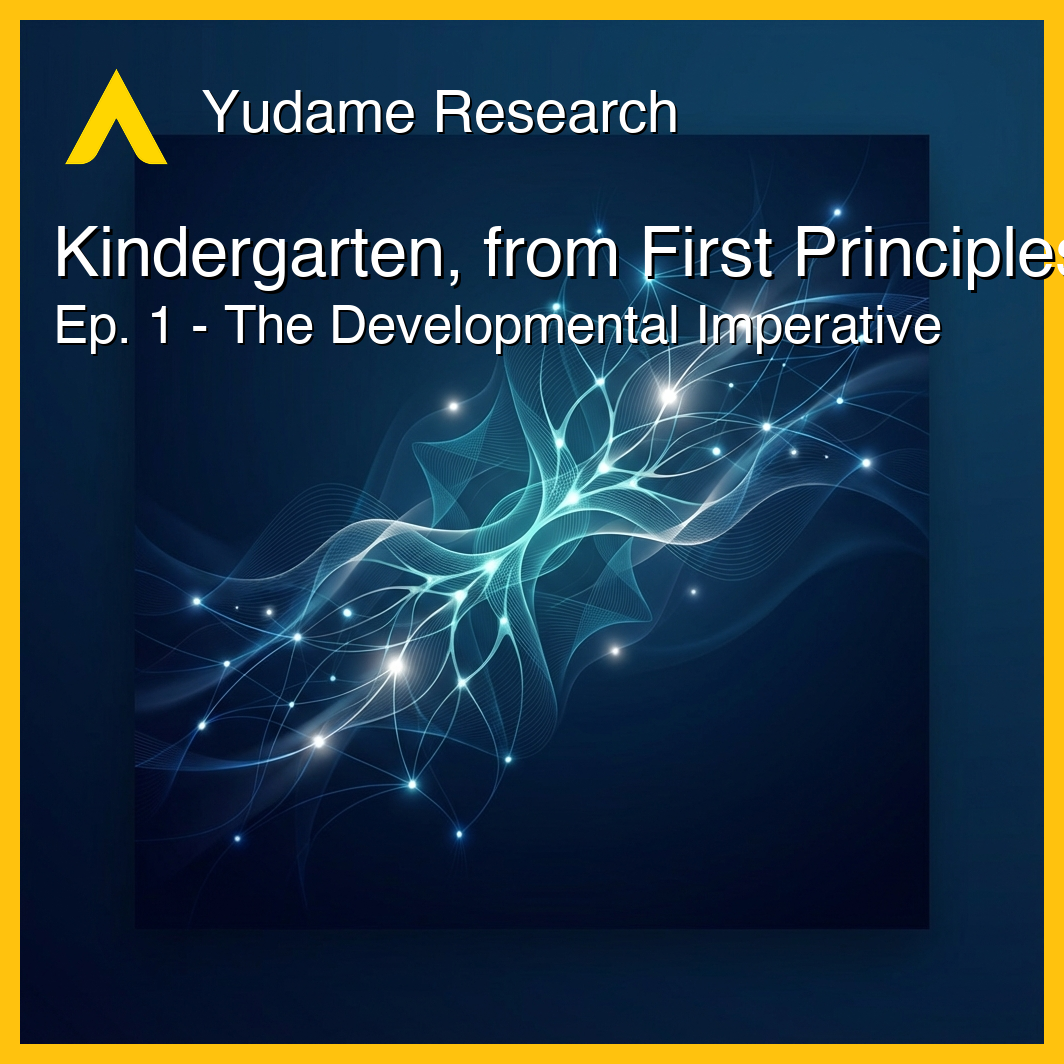
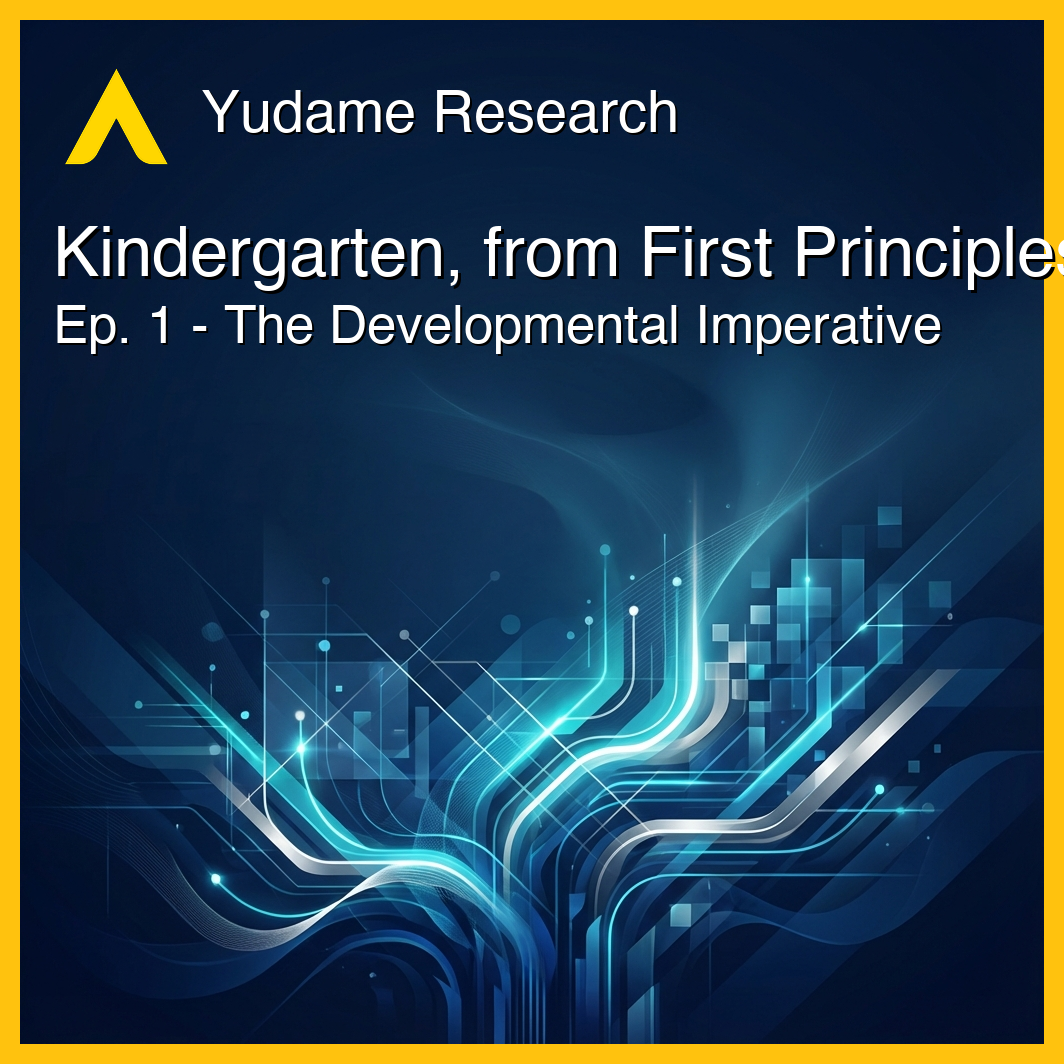
feat: Regenerate Episode 1 cover art with improved composition
Regenerated cover art using updated prompt with better composition guidelines:
- Visual interest concentrated in lower 2/3 of image
- Top 1/3 kept simple for text overlay placement
- Ensures better readability of logo, series name, and episode title

Changes:
- Regenerate cover.png with improved Gemini prompt
- Reapply branding (logo, series text, border)
- Update feed.xml version from ?v=1 to ?v=2 for cache busting

This ensures podcast apps fetch the new cover image immediately.

diff --git a/podcast/episodes/kindergarten-first-principles/ep1-developmental-imperative/prompts.md b/podcast/episodes/kindergarten-first-principles/ep1-developmental-imperative/prompts.md
@@ -173,3 +173,56 @@ IMPORTANT:
 **Output:** cover.png
 
 **Date:** 2025-11-28
+
+
+## Cover Art Generation
+
+**Tool Used:** OpenRouter - google/gemini-3-pro-image-preview
+
+**Original Prompt:**
+```
+Modern podcast episode cover art for "Ep1 Developmental Imperative":
+
+Style: Clean, professional, abstract visualization
+Layout: Bold visual elements suitable for square format
+Color palette: Deep navy blues and dark blues as the dominant theme throughout
+Concept: *Research report for Kindergarten, from First Principles: Episode 1* --- Ages 4-6 represent a developmental inflection point. During these years, the structure of executive function itself transforms—
+
+Design as square format (1024x1024px) with space for text overlay.
+Professional, minimalist aesthetic suitable for Apple Podcasts.
+No text in the image - pure visual design.
+```
+
+**Enhanced Prompt:**
+```
+Modern podcast episode cover art for "Ep1 Developmental Imperative":
+
+Style: Clean, professional, abstract visualization
+Layout: Bold visual elements suitable for square format
+Color palette: Deep navy blues and dark blues as the dominant theme throughout
+Concept: *Research report for Kindergarten, from First Principles: Episode 1* --- Ages 4-6 represent a developmental inflection point. During these years, the structure of executive function itself transforms—
+
+Design as square format (1024x1024px) with space for text overlay.
+Professional, minimalist aesthetic suitable for Apple Podcasts.
+No text in the image - pure visual design.
+
+IMPORTANT VISUAL REQUIREMENTS:
+- The ENTIRE canvas from edge to edge must be deep navy blue and dark blue tones - no borders, frames, or light backgrounds
+- Dark blue fills the complete image area - not just a section or inner frame
+- Use bright teal, white, and silver only as accent colors on top of the dark blue theme
+- Pure abstract visualization only
+- Absolutely no text, no numbers, no labels, no annotations, no icons, no logos, no symbols, no letterforms of any kind
+- Clean visual design without any typography or graphic elements
+
+COMPOSITION:
+- Visual interest and detail should be concentrated in the LOWER 2/3 of the image
+- Keep the TOP 1/3 relatively simple and uncluttered for text overlay placement
+- Main graphic elements should flow from center to bottom
+- Avoid placing busy patterns or focal points in the upper third
+```
+
+**Aspect Ratio:** 1:1
+
+**Output:** cover.png
+
+**Date:** 2025-11-28
